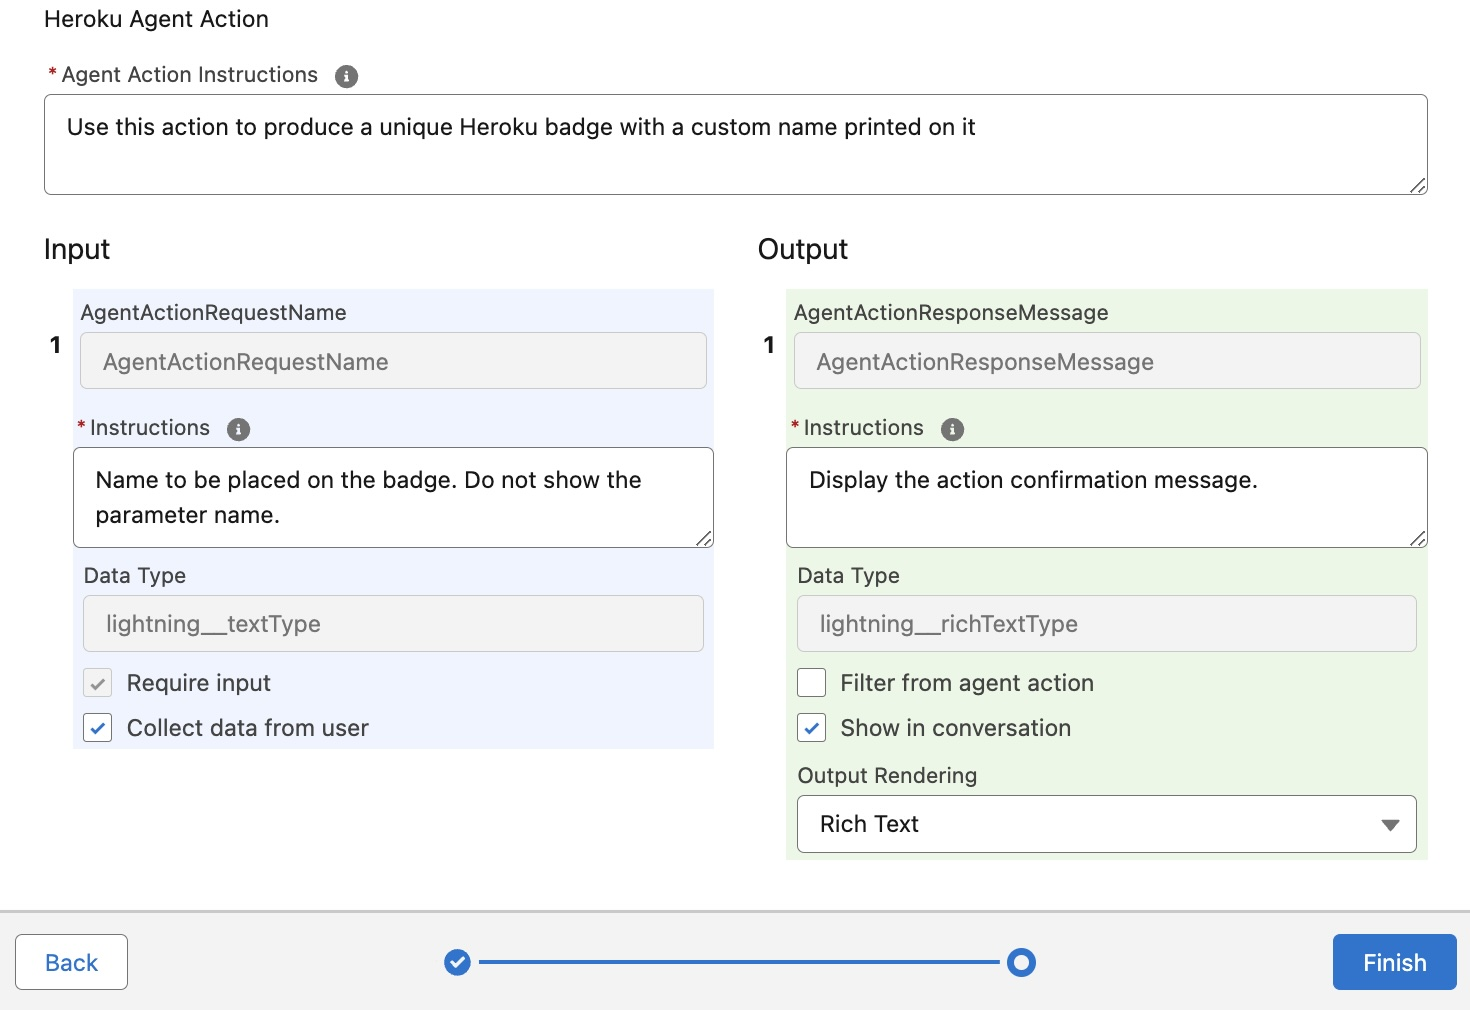
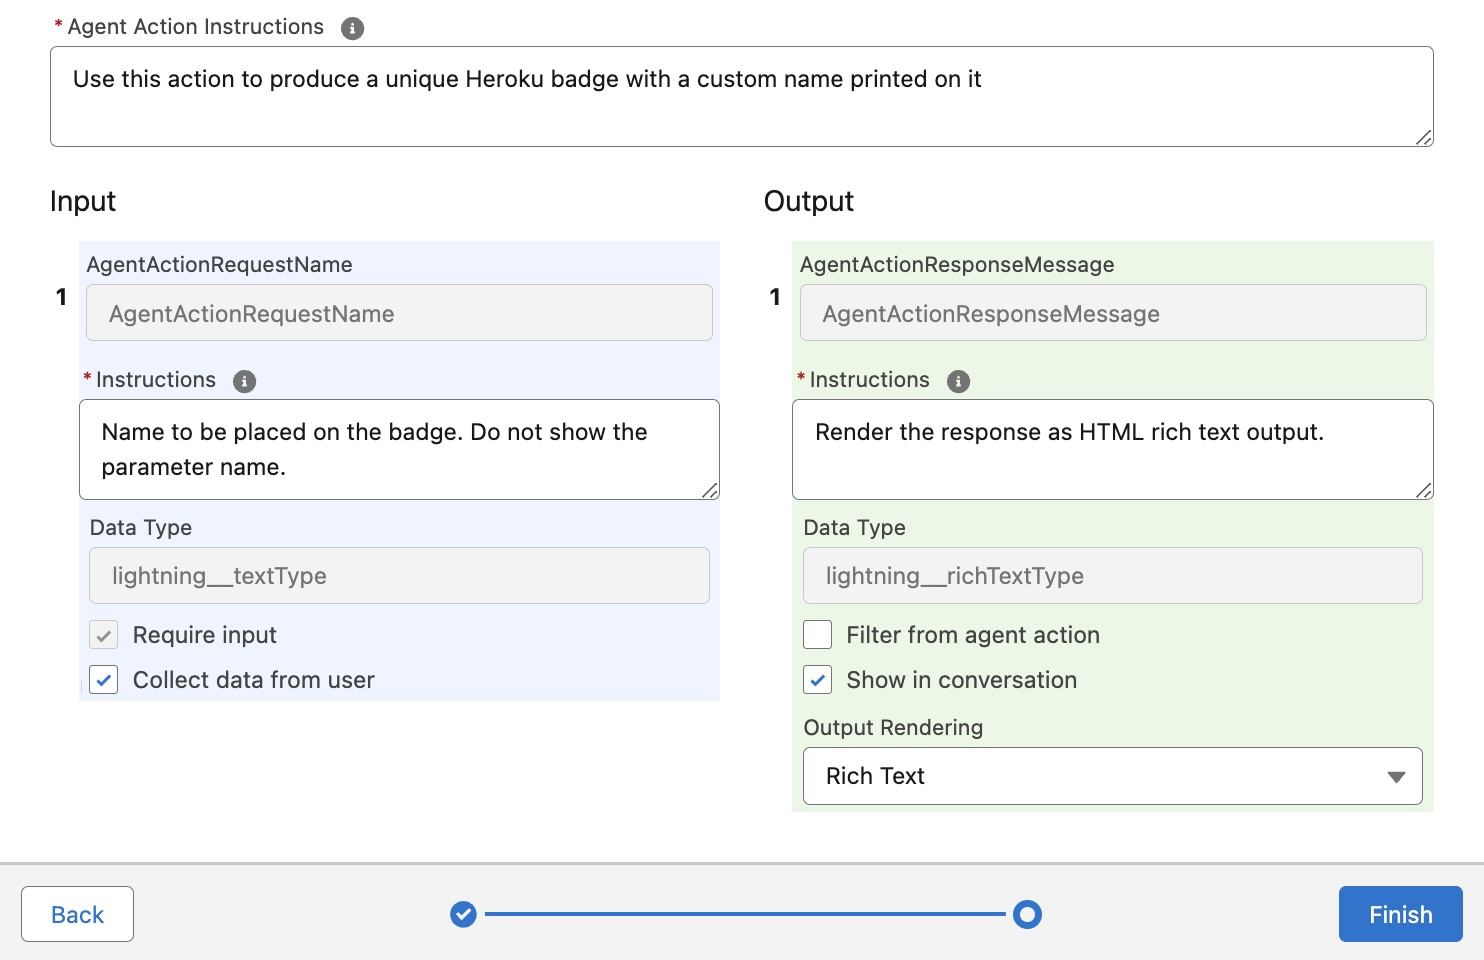
Further updates and clarifications
Thanks for all the feedback!

diff --git a/README.md b/README.md
@@ -46,7 +46,7 @@ If you have not yet gained access to an Agentforce-enabled environment, please r
 
     > The default password for this tutorial is `agent`.
 
-3. Search for `Named Credentials` under `Setup`, select the 'Named Credentials' tab, and click `New`, completing the dialog as shown.
+3. Search for `Named Credentials` under `Setup`, select the `Named Credentials` tab, and click `New`, completing the dialog as shown.
 
     <img src="images/step2-3.jpg" width="80%" alt="Image description">
 
@@ -59,7 +59,14 @@ Step 3 - Registering the Action API
 
     <img src="images/step3-1.jpg" width="80%" alt="Image description">
 
-    > To obtain the schema shown, open the Swagger page for your deployed Action and click the link in the top left corner of the page. This will be `/v3/api-docs` (Java) or `/swagger.json` (Python). Copy and paste the entire contents. If you have not modified the code or are using the pre-deployments above, you can click [here](https://agentforce-tutorial-java-fd05948b2c0a.herokuapp.com/v3/api-docs) (Java) or [here](https://agentforce-tutorial-python-7894e9215571.herokuapp.com/swagger.json) (Python).
+    If you have not modified the action code yet or are using the pre-deployments above, you can click [here](https://agentforce-tutorial-java-fd05948b2c0a.herokuapp.com/v3/api-docs) (Java) or [here](https://agentforce-tutorial-python-7894e9215571.herokuapp.com/swagger.json) (Python) to obtain the schema and copy-paste it into the `Schema` field. Log in when prompted with user `heroku` and password `agent`.
+    
+    Alternatively, to obtain the dynamically generated schema for your own action deployment, refer to the instructions in the respective GitHub repository in the table above to open the API Test (Swagger) page. Then click the link just below the API title in the top left corner of the page, as shown in the examples below. Then copy and paste the entire contents into the `Schema` field above.
+    
+    <img src="images/step3-1-1.jpg" width="40%" alt="Image description">  
+    <img src="images/step3-1-2.jpg" width="30%" alt="Image description">
+    
+    For more information on the API Test (Swagger) page and authentication, see the respective sample code GitHub repositories listed in the table in step 1.
 
 2. Finally, on the next page, select the `Operation` shown below and click `Next`.
 
@@ -123,6 +130,8 @@ Step 5 - Creating an Agentforce Action
 
     <img src="images/step5-4.jpg" width="80%" alt="Image description">
 
+    > **Tip:** To complete the `Value` field click into the field and use the popup to select the `Outputs from the Call Heroku Action` resource, then click `_200` and finally `message`. <br/><img src="images/step5-4-1.jpg" width="30%" alt="Image description">
+
 6. Finally, your `Flow` should look like this:
 
     <img src="images/step5-5.jpg" width="80%" alt="Image description">
@@ -141,7 +150,7 @@ Step 5 - Creating an Agentforce Action
     | ----- | ---- |
     | `Agent Action Instructions` | Use this action to produce a unique Heroku badge with a custom name printed on it |
     | `AgentActionRequestName Instructions` | Name to be placed on the badge. Do not show the parameter name. |
-    | `AgentActionResponseMessage Instructions` | Display the action confirmation message. |
+    | `AgentActionResponseMessage Instructions` | Render the response as HTML rich text output. |
 
 Step 6 - Using Agent Builder
 ----------------------------
